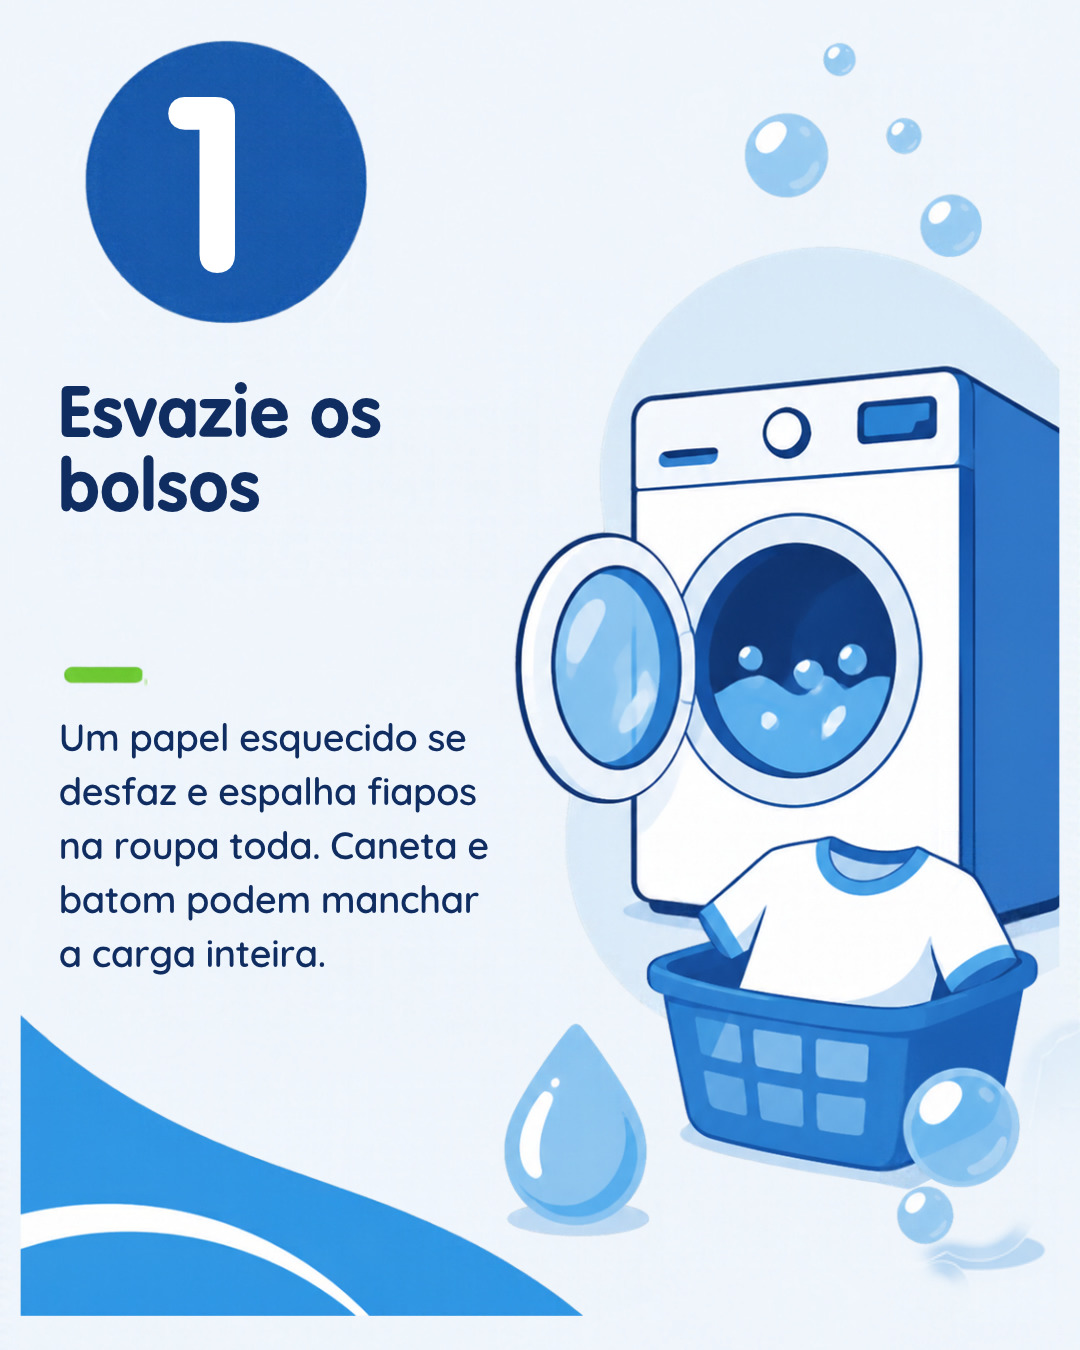
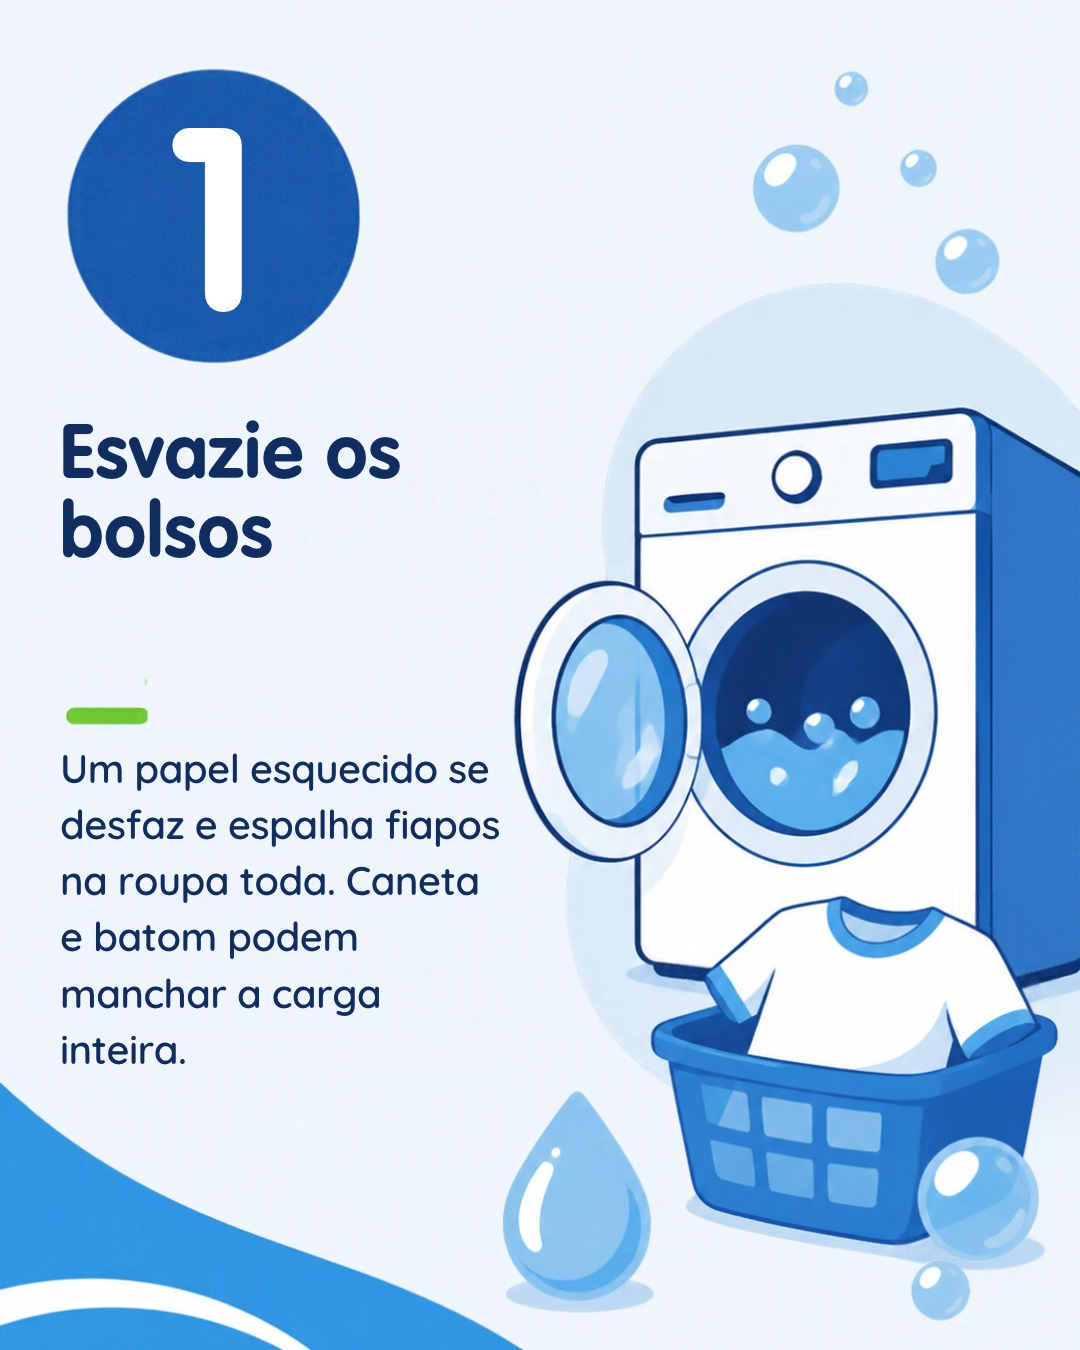
Post de 24/11 refeito no modelo v2 (número centralizado na bolinha); volta a ficar agendado

diff --git a/automacao-instagram/tarefa-agendada.md b/automacao-instagram/tarefa-agendada.md
@@ -80,7 +80,7 @@ Elementos de texto do feed (procure pelo texto atual no `read-design`; os ids mu
 - capa: pílula "dica lavaê" (troque por "dica lavaê", "você sabia?", "cuidado", "mito ou verdade?"… até 12
   caracteres), título "Título da capa em até três linhas" (até 40 caracteres), subtítulo na pílula verde
   "subtítulo curto" (até 20 caracteres), "arraste para o lado →";
-- dica: número "1" no círculo, "Título da dica em até três linhas" (até 40), texto de apoio (até 140);
+- dica: número "1" no círculo (só troque o texto; a caixa do número já está centralizada na bolinha, não mova), "Título da dica em até três linhas" (até 40), texto de apoio (até 140);
 - final: "lavar ficou fácil!" e "Salve este post e compartilhe 💙" (mantenha), endereço e horário (mantenha).
 
 Passos (ferramentas do conector Canva):
